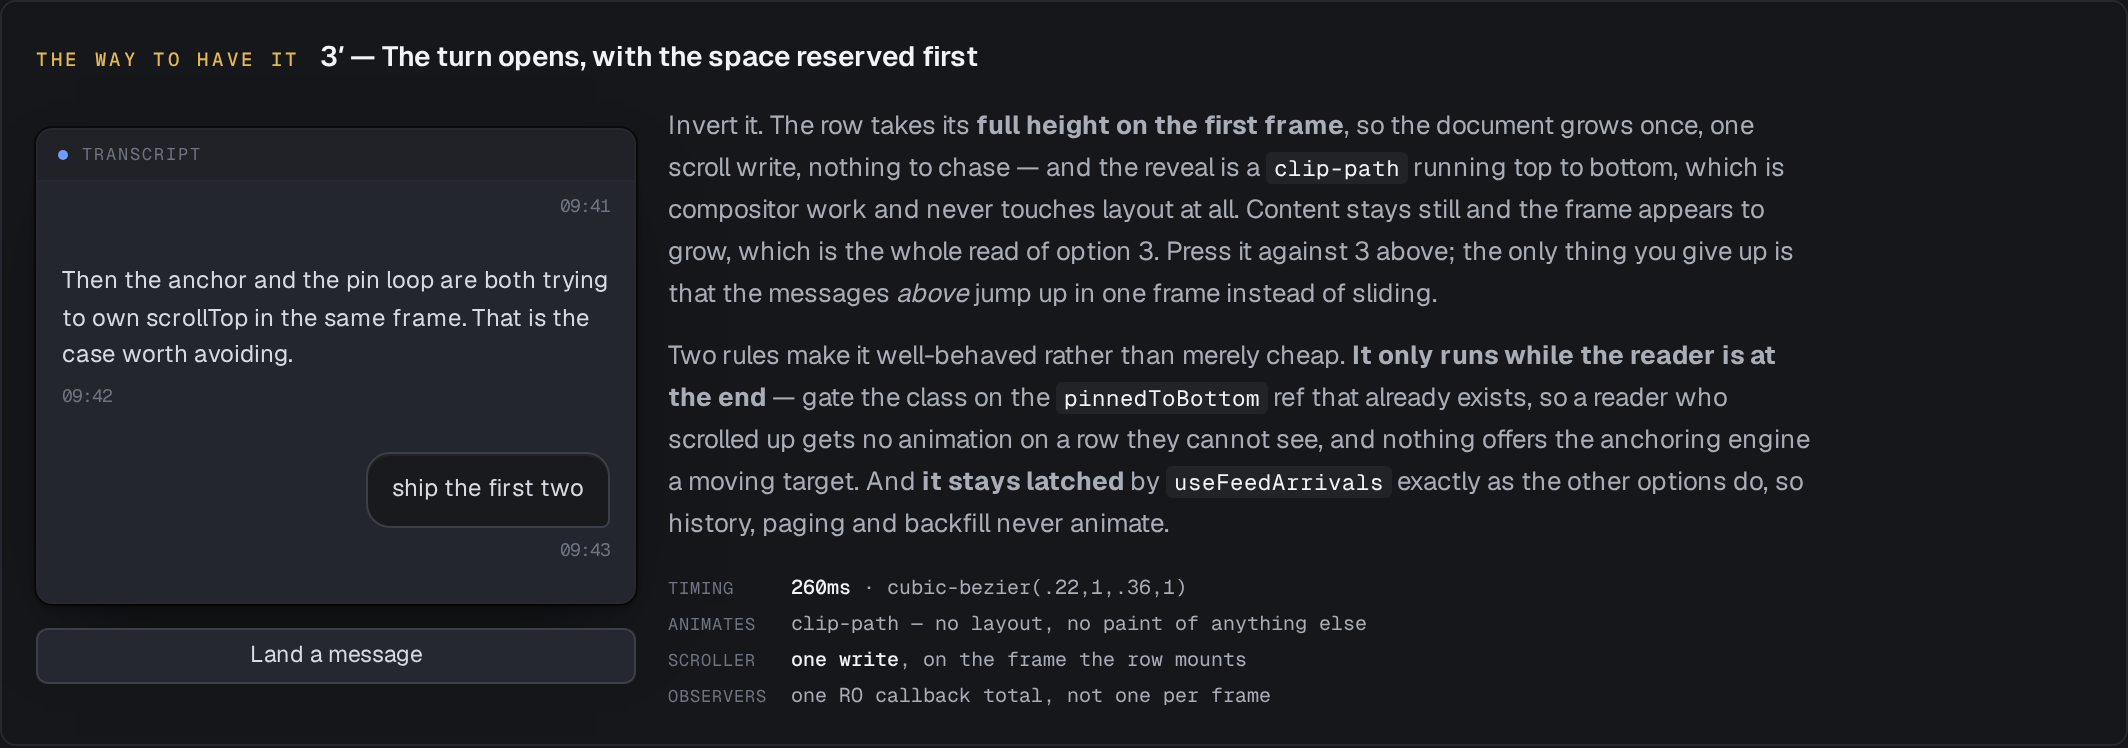
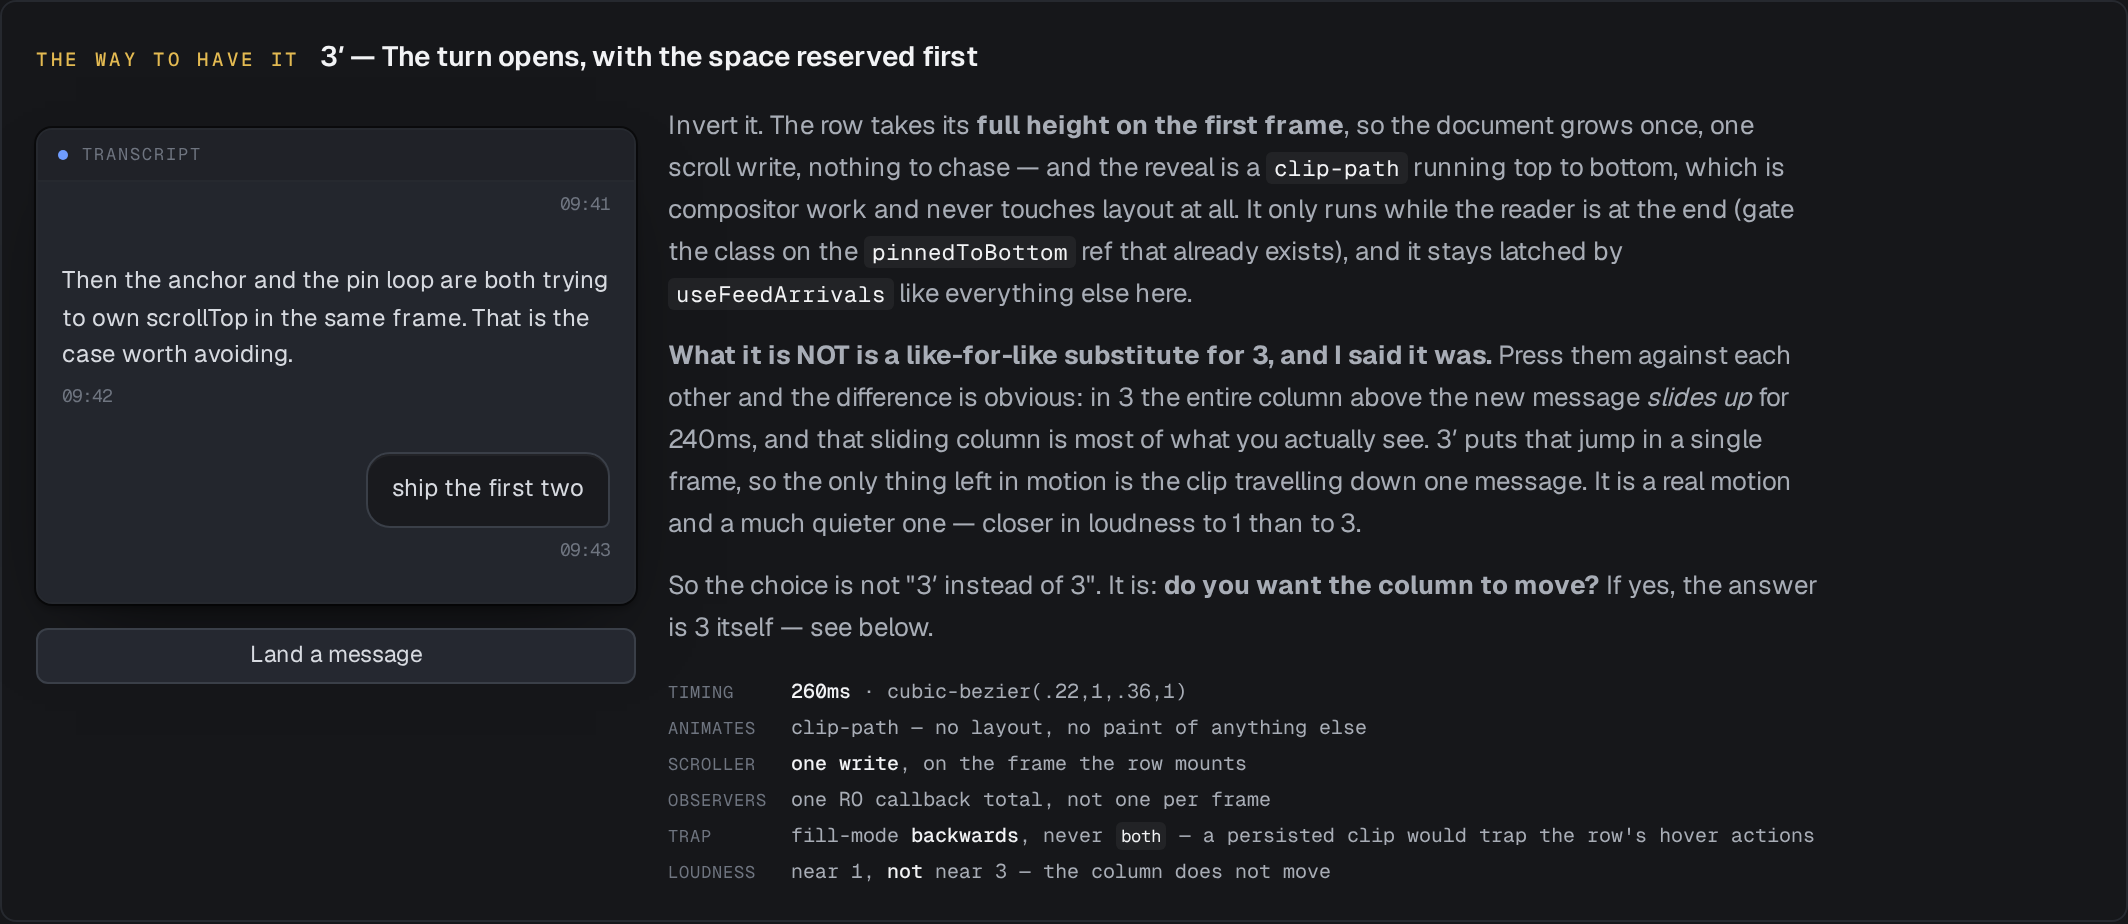
docs(web): 3-prime replaces the lift, not the unroll
The claim that it gives option 3's read was wrong: in 3 the whole column
above the new message slides for 240ms, and that sliding column is most
of what a reader sees. 3-prime puts it in one frame. Corrected, and the
verdict on 3 revised with it — it is about twenty lines, the writes go
DOWN rather than up, and the real objection is that the lines live in
use-transcript-scroll.ts while POD-1160 is open.

diff --git a/.artifacts/POD-1158/chat-motion.html b/.artifacts/POD-1158/chat-motion.html
@@ -655,6 +655,8 @@ section{padding-top:62px}
     <h4>The catch on 3 — and it is not frame rate</h4>
     <p>Animating one row's height at the end of a feed is cheap; that was never the objection. The cost is that <b>3 is the only option where the height of the document changes while the animation runs</b> — about fourteen times over 240ms — and in this scroller three different things react to that. <code>9785df5f0</code> deliberately removed <code>overflow-anchor: none</code>, so WebKit's native anchoring is now live and picks a node to hold still. The <code>ResizeObserver</code> in <code>use-transcript-scroll.ts</code> observes <em>every row</em> and writes <code>scrollTop = scrollHeight</code> on each callback. The <code>MutationObserver</code> does the same. During an unroll all three fire on every frame, each one certain it knows where the bottom is.</p>
     <p style="margin-top:11px">The measurable cost is not the layout — it is that each of those callbacks also runs <code>syncStickyPromptPositions()</code>, which does a <code>querySelectorAll</code> plus a <code>getBoundingClientRect()</code> per operator prompt. That is a forced synchronous layout per frame, per prompt, for the length of every message that lands. On a long transcript that is the thing you would feel, and it is caused by the animation without being the animation's own work.</p>
+    <p style="margin-top:11px"><b>None of which makes 3 unbuildable — and on a second look it is the smaller job than it appeared.</b> The fix is not to avoid a moving height; it is to stop three writers arguing over it. Give the arrival a short-lived claim on the scroll: for the 240ms it runs, the <code>ResizeObserver</code> and <code>MutationObserver</code> writes early-return, <code>syncStickyPromptPositions</code> is skipped, and <b>one</b> rAF loop pins the bottom. That is strictly fewer writes and fewer forced layouts than a landing message costs today, not more. Native anchoring is the least of it: growth at the very bottom, below whatever node the engine has anchored to, produces no adjustment at all.</p>
+    <p style="margin-top:11px">So the honest objection to 3 is not performance and not correctness. It is that the twenty lines live in <code>use-transcript-scroll.ts</code> — the single most delicate file in the app, and the one with an open Safari bug being actively chased in another issue. That is a scheduling risk, and it is yours to weigh, not mine to decide by quietly recommending around it.</p>
   </div>
 
   <!-- 3′ ---------------------------------------------------------------- -->
@@ -674,14 +676,16 @@ section{padding-top:62px}
         <button type="button" class="btn" data-fire="arrival-wipe" style="margin-top:12px; width:100%">Land a message</button>
       </div>
       <div>
-        <p class="lede" style="font-size:13px">Invert it. The row takes its <b>full height on the first frame</b>, so the document grows once, one scroll write, nothing to chase — and the reveal is a <code>clip-path</code> running top to bottom, which is compositor work and never touches layout at all. Content stays still and the frame appears to grow, which is the whole read of option 3. Press it against 3 above; the only thing you give up is that the messages <em>above</em> jump up in one frame instead of sliding.</p>
-        <p class="lede" style="font-size:13px; margin-top:10px">Two rules make it well-behaved rather than merely cheap. <b>It only runs while the reader is at the end</b> — gate the class on the <code>pinnedToBottom</code> ref that already exists, so a reader who scrolled up gets no animation on a row they cannot see, and nothing offers the anchoring engine a moving target. And <b>it stays latched</b> by <code>useFeedArrivals</code> exactly as the other options do, so history, paging and backfill never animate.</p>
+        <p class="lede" style="font-size:13px">Invert it. The row takes its <b>full height on the first frame</b>, so the document grows once, one scroll write, nothing to chase — and the reveal is a <code>clip-path</code> running top to bottom, which is compositor work and never touches layout at all. It only runs while the reader is at the end (gate the class on the <code>pinnedToBottom</code> ref that already exists), and it stays latched by <code>useFeedArrivals</code> like everything else here.</p>
+        <p class="lede" style="font-size:13px; margin-top:10px"><b>What it is NOT is a like-for-like substitute for 3, and I said it was.</b> Press them against each other and the difference is obvious: in 3 the entire column above the new message <em>slides up</em> for 240ms, and that sliding column is most of what you actually see. 3&prime; puts that jump in a single frame, so the only thing left in motion is the clip travelling down one message. It is a real motion and a much quieter one — closer in loudness to 1 than to 3.</p>
+        <p class="lede" style="font-size:13px; margin-top:10px">So the choice is not "3&prime; instead of 3". It is: <b>do you want the column to move?</b> If yes, the answer is 3 itself — see below.</p>
         <dl class="spec" style="margin-top:14px">
           <div style="display:contents"><dt>timing</dt><dd><b>260ms</b> &middot; cubic-bezier(.22,1,.36,1)</dd></div>
           <div style="display:contents"><dt>animates</dt><dd>clip-path &mdash; no layout, no paint of anything else</dd></div>
           <div style="display:contents"><dt>scroller</dt><dd><b>one write</b>, on the frame the row mounts</dd></div>
           <div style="display:contents"><dt>observers</dt><dd>one RO callback total, not one per frame</dd></div>
           <div style="display:contents"><dt>trap</dt><dd>fill-mode <b>backwards</b>, never <code>both</code> &mdash; a persisted clip would trap the row's hover actions</dd></div>
+          <div style="display:contents"><dt>loudness</dt><dd>near 1, <b>not</b> near 3 &mdash; the column does not move</dd></div>
         </dl>
       </div>
     </div>
@@ -690,7 +694,7 @@ section{padding-top:62px}
   <div class="note note--pick">
     <h4>Take 1 and 2, because they are two different events <span class="tagline">recommended</span></h4>
     <p>This is the whole diagnosis turned into a fix. <b>Arriving</b> is movement: a completed turn — your own message, an answer, folded mail, a recap — has its full size the moment it exists, so it lands with the 6px lift and reads unmistakably as news. <b>Filling</b> is tone: a streaming agent turn has no size yet, so give it the seat immediately and let the ink resolve as the text accrues, paragraph by paragraph. One animation cannot do both jobs, which is why the one we have feels like it does neither.</p>
-    <p style="margin-top:11px"><b>3&prime; substitutes cleanly for 1.</b> If the opening frame is the read you want, take the wipe instead of the lift for completed turns and keep 2 for streaming ones — its cost profile is the same as 1's and the pairing logic is unchanged. What does not substitute is <b>3</b> as written: not because of frame rate, but because it puts a second authority on <code>scrollTop</code> for the length of every message.</p>
+    <p style="margin-top:11px"><b>Corrected:</b> 3&prime; is a substitute for <b>1</b>, not for 3 — the wipe and the lift sit at the same loudness and the same cost, and you pick between them on taste. If you want the column itself to move, only <b>3</b> does that, and 3 is buildable for about twenty lines in the scroll hook. The reason to think twice is which file those lines are in, not what they cost at runtime.</p>
   </div>
 </section>
 
